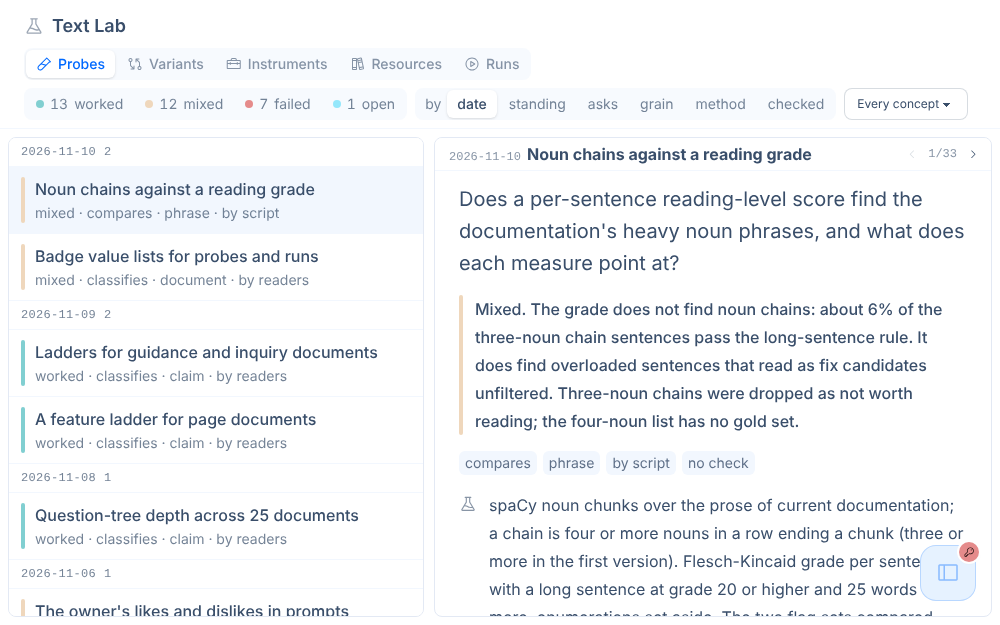
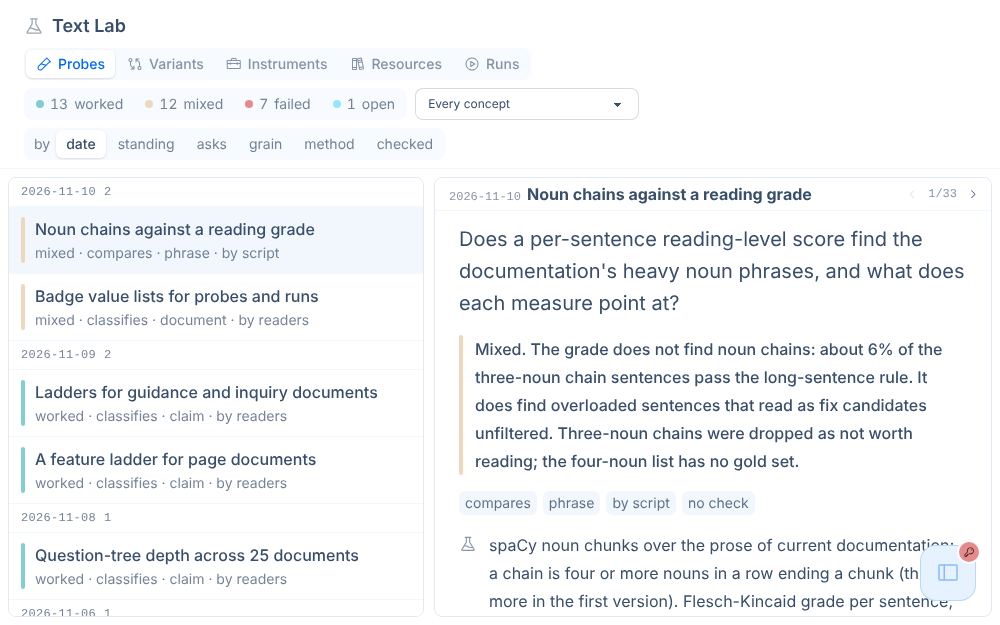
Text Lab: the grouping pills take their own row, and the concept picker stays in view
The standing counts scroll inside their own strip beside the concept
picker, which is held at the row's end, so it no longer scrolls off a
phone's viewport. Grouping and any active filter sit on the row below.

Claude-Session: https://claude.ai/code/session_01Ug8CX8f1Cs45v1PjqzUqbw

diff --git a/pages/text-lab.html b/pages/text-lab.html
@@ -1289,29 +1289,37 @@
     </div>
 
     <!-- probes: the standings are the filter, then concepts -->
-    <div x-show="pane === 'probes'" class="flex items-center gap-2 overflow-x-auto whitespace-nowrap -mx-4 px-4 sm:-mx-6 sm:px-6">
-      <div class="shrink-0" :class="SEG.box" data-slot="frame:count-chips">
-        <template x-for="key in ['worked','mixed','failed','open']" :key="key">
-          <button type="button" class="inline-flex items-center gap-1.5" :class="[SEG.item, filterStanding === key ? SEG.on : SEG.off]"
-                  @click="filterStanding = filterStanding === key ? '' : key">
-            <span class="w-2 h-2 rounded-full" :class="STANDINGS[key].bar"></span>
-            <span class="tabular-nums" x-text="counts[key]"></span><span x-text="key"></span>
-          </button>
-        </template>
+    <!-- probes: the standing counts with the concept picker held in view
+         beside them, then the grouping on a row of its own with any filter a
+         card's badge has set. Each strip scrolls sideways inside itself, so
+         the picker never leaves the viewport. -->
+    <div x-show="pane === 'probes'" class="flex items-center gap-2 min-w-0">
+      <div class="min-w-0 overflow-x-auto [scrollbar-width:none] [&::-webkit-scrollbar]:hidden rounded-lg">
+        <div class="whitespace-nowrap" :class="SEG.box" data-slot="frame:count-chips">
+          <template x-for="key in ['worked','mixed','failed','open']" :key="key">
+            <button type="button" class="inline-flex items-center gap-1.5" :class="[SEG.item, filterStanding === key ? SEG.on : SEG.off]"
+                    @click="filterStanding = filterStanding === key ? '' : key">
+              <span class="w-2 h-2 rounded-full" :class="STANDINGS[key].bar"></span>
+              <span class="tabular-nums" x-text="counts[key]"></span><span x-text="key"></span>
+            </button>
+          </template>
+        </div>
       </div>
-      <div class="shrink-0" :class="SEG.box">
-        <span class="pl-2 pr-1 text-sm text-base-content/70">by</span>
-        <template x-for="[key, label] in PROBE_BYS" :key="key">
-          <button type="button" :class="[SEG.item, probeBy === key ? SEG.on : SEG.off]" @click="probeBy = key" x-text="label"></button>
-        </template>
-      </div>
-      <select id="probe-concept" class="select select-bordered select-sm w-auto max-w-[14rem] shrink-0" aria-label="Concept" data-slot="frame:filter-switch"
+      <select id="probe-concept" class="select select-bordered select-sm shrink-0 w-36 sm:w-56 ml-auto sm:ml-0" aria-label="Concept" data-slot="frame:filter-switch"
               x-model="concept">
         <option value="">Every concept</option>
         <template x-for="[name, n] in concepts" :key="name">
           <option :value="name" x-text="name + ' (' + n + ')'"></option>
         </template>
       </select>
+    </div>
+    <div x-show="pane === 'probes'" class="flex items-center gap-2 overflow-x-auto [scrollbar-width:none] [&::-webkit-scrollbar]:hidden whitespace-nowrap -mx-4 px-4 sm:-mx-6 sm:px-6">
+      <div class="shrink-0" :class="SEG.box">
+        <span class="pl-2 pr-1 text-sm text-base-content/70">by</span>
+        <template x-for="[key, label] in PROBE_BYS" :key="key">
+          <button type="button" :class="[SEG.item, probeBy === key ? SEG.on : SEG.off]" @click="probeBy = key" x-text="label"></button>
+        </template>
+      </div>
       <template x-for="[dim, value] in Object.entries(badgeFilter)" :key="dim">
         <button type="button" class="shrink-0 inline-flex items-center gap-1 rounded-md bg-primary/15 px-2 py-1 text-sm cursor-pointer" @click="toggleBadge(dim, value)">
           <span x-text="badgeText(dim, value)"></span><i class="ph ph-x"></i>
